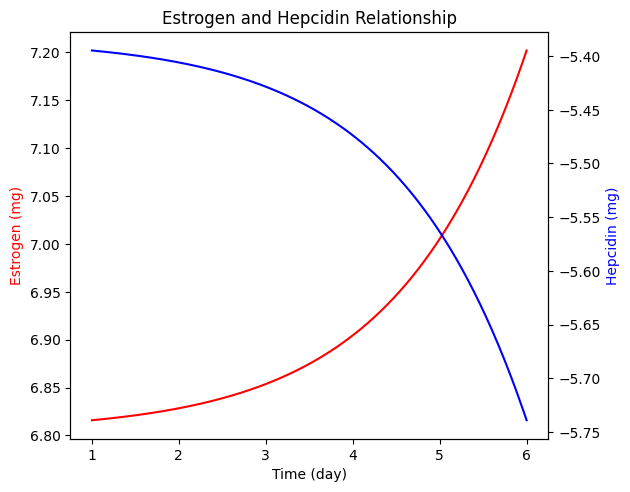
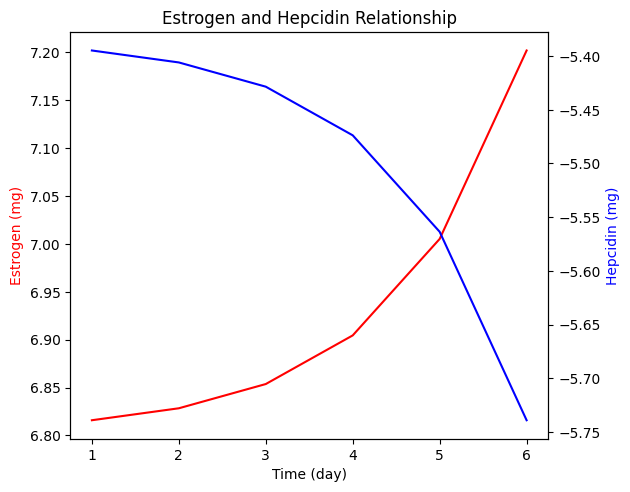
6times

diff --git a/equations.py b/equations.py
@@ -5,7 +5,7 @@ import initial_numbers as c
 #ironMR = c.bloodflowQ*c.ironC
 
 #~~~~~~~~~~~  lists ~~~~~~~~~~#
-time = np.linspace(1,6,num=141) #6 days , list values in hours.
+time = np.linspace(1,6,num=6) #6 days , list values in hours.
 cycle = np.linspace(1, 28, num=200) #28 days
 blossrate = np.zeros(time.size)
 totalblost = np.zeros(time.size)
@@ -61,28 +61,28 @@ for i in range(cycle.size) :
 #small intestine: no acc of anything, nothing to track.
 
 #initial value for hepcidin: 
-hep[0] = c.hepIron*hemo6[0] + 1220000 + c.hepEst*est[0] + 0.678
+hep[0] = c.hepIron*ironStor[0] + 1220000 + c.hepEst*est[0] + 0.678
 
 for i in range(time.size-1) :
     #STORAGE:
-    ironStor[i+1] = c.ironHep*hep[i]*time[i]  - 3275.1
+    ironStor[i+1] = c.ironHep*hep[i]  
 
     #hemo 
 
-    hemo9[i+1] = (c.m4hemo + c.m8hemo -blossrate[i])*time[i]
-    hemo6[i+1] = (c.m3hemo  + hemo9[i] + c.m5hemo - c.m8hemo)*time[i]
+    hemo9[i+1] = hemo9[i] + (c.m4hemo + c.m8hemo -blossrate[i])
+    hemo6[i+1] = hemo6[i] + (c.m3hemo  + hemo9[i] + c.m5hemo - c.m8hemo)
 
     #hep is downregulated by estrogen and downregulated by low iron.
-    hep[i+1] = c.hepEst*est[i]*time[i] + 0.678
+    hep[i+1] = hep[i] + c.hepEst*est[i] + 0.678
     #if iron falls below normal/initial storage level, hep is decreased.
-    hep[i+1] = c.hepIron*(hemo6[i])*time[i] +1220000 # or ironStor[0] - ironStor[i]
+    hep[i+1] += c.hepIron*(hemo6[i]) # or ironStor[0] - ironStor[i]
 
 
-print("times: ", time[::28])
-print("iron in storage: ", ironStor[::28])
-print("hep: ", hep[::28])
-print("hemo6: ", hemo6[::28])
-print("est: ", est[::28])
+print("times: ", time)
+print("iron in storage: ", ironStor)
+print("hep: ", hep)
+print("hemo6: ", hemo6)
+print("est: ", est)
 
 
 

diff --git a/initial_numbers.py b/initial_numbers.py
@@ -42,10 +42,10 @@ genIron = c #changes to accommmodate the fluctuations in accumulation in storage
 accEst = c #accumulation of estrogen in the reproductive system, varies per day
 
 #relationships between hepcidin/iron/estrogen (normal) - all of these values should be calculated from the lists in the for loops
-hepIron = -7298#*m7hemo + 1220000 #mg/day, used to calculate the amount of hepcidin based on amount of hemoglobin leaving through menstruation, changes daily
+hepIron = -7298/3#*m7hemo + 1220000 #mg/day, used to calculate the amount of hepcidin based on amount of hemoglobin leaving through menstruation, changes daily
 hepEst = -0.891#*accEst + 0.678 #mg/day, used to calculate the amount of hepcidin based on the amount of estrogen
 hepTotal = hepIron + hepEst #total hepcidin per day
-ironHep = -0.00137#*hepTotal - 3275.4 #total iron in storage
+ironHep = -0.00137/3#*hepTotal - 3275.4 #total iron in storage
 
 
 #normal values that are most relevant to graphing

diff --git a/graphing.py b/graphing.py
@@ -9,7 +9,7 @@ import numpy as np
 #time vs accIron, accEstrogen, hepcidin in storage
 plt.plot(e.time, e.ironStor, label='iron')
 plt.plot(e.time, e.est, label='estrogen')
-plt.plot(e.time, e.hep, label="hepcidin")
+#plt.plot(e.time, e.hep, label="hepcidin")
 plt.xlabel("time (days)")
 plt.ylabel("Stored (mg)")
 plt.legend()
